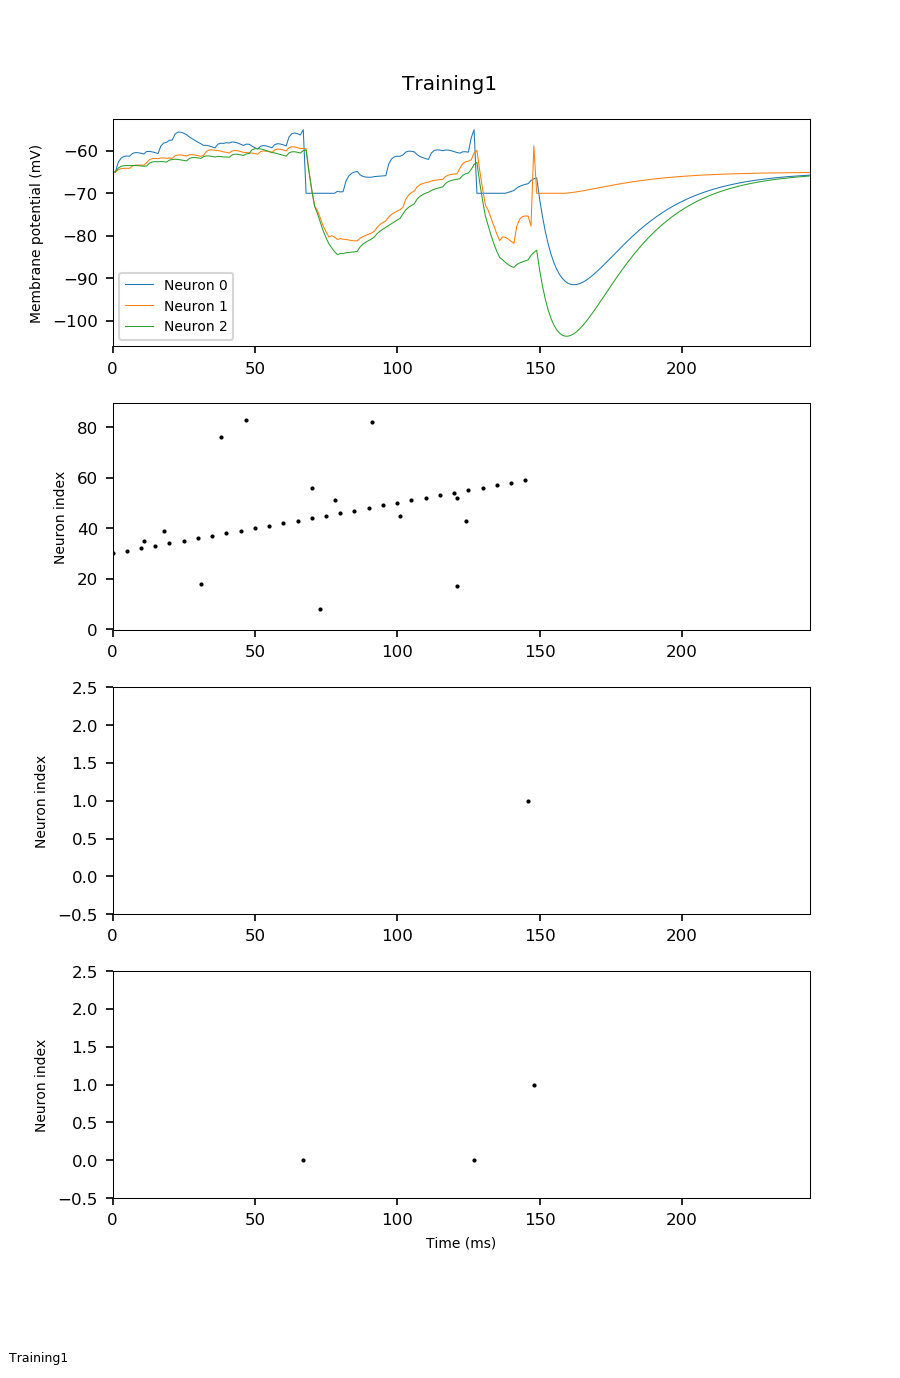
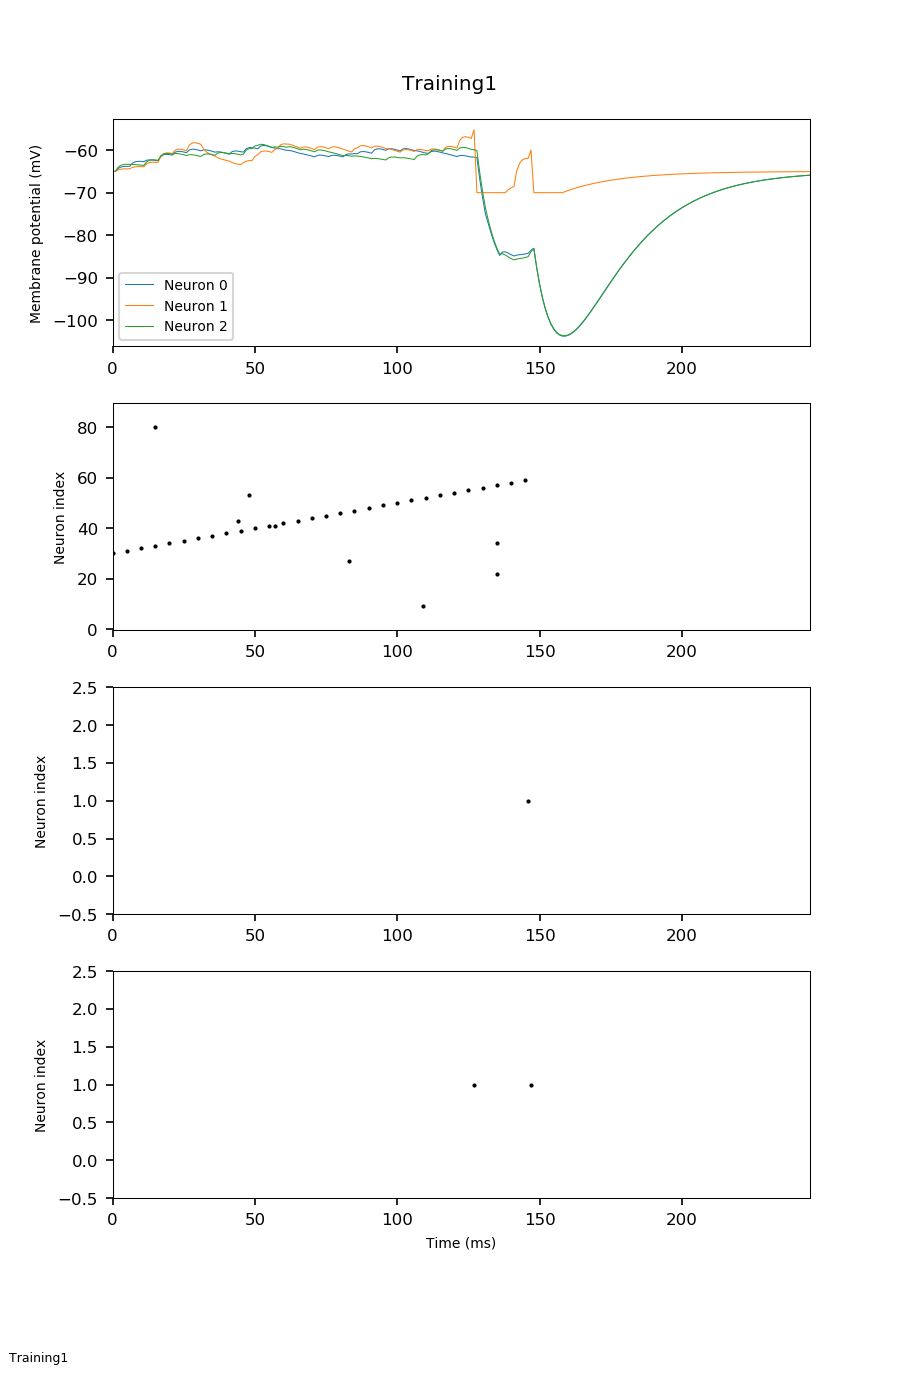
nothing

diff --git a/simple_noise.py b/simple_noise.py
@@ -14,7 +14,7 @@ __delay__ = 0.250 # (ms)
 tauPlus = 8 #20 # 15 # 16.8 from literature
 tauMinus = 8 #20 # 30 # 33.7 from literature
 aPlus = 0.500  #tum 0.016 #9 #3 #0.5 # 0.03 from literature
-aMinus = 0.3500 #255 #tum 0.012 #2.55 #2.55 #05 #0.5 # 0.0255 (=0.03*0.85) from literature 
+aMinus = 0.2500 #255 #tum 0.012 #2.55 #2.55 #05 #0.5 # 0.0255 (=0.03*0.85) from literature 
 wMax = 5 #1 # G: 0.15 1
 wMaxInit = 1.00#0.1#0.100
 wMin = 0
@@ -94,17 +94,15 @@ def train(label,untrained_weights):
     for i in range(output_size):
         labelSpikes.append([])
     labelSpikes[label] = [int(max(max(spikeTimes)))+1]
+
     
-    '''
     if untrained_weights == None:
         untrained_weights = RandomDistribution('uniform', low=wMin, high=wMaxInit).next(input_size*output_size)
         #untrained_weights = RandomDistribution('normal_clipped', mu=0.1, sigma=0.05, low=wMin, high=wMaxInit).next(input_size*output_size)
         untrained_weights = np.around(untrained_weights, 3)
         #saveWeights(untrained_weights, 'untrained_weightssupmodel1traj')
         print ("init!")
-    else:
-        untrained_weights=weight_list
-    '''
+    
     #untrained_weights=weight_list
 
     print "length untrained_weights :", len(untrained_weights)
@@ -274,9 +272,9 @@ def test(spikeTimes, trained_weights,label):
 
 #==============main================
 
-#weight_list=None
-weight_list=np.load("trainedweight"+str(trylabel)+".npy")
-for i in range(3):
+weight_list=None
+#weight_list=np.load("trainedweight"+str(trylabel)+".npy")
+for i in range(5):
     #spikeTimes=generate_data(1)
     weight_list=train(label=1,untrained_weights=weight_list)
 np.save("trainedweight"+str(trylabel)+".npy",weight_list)
